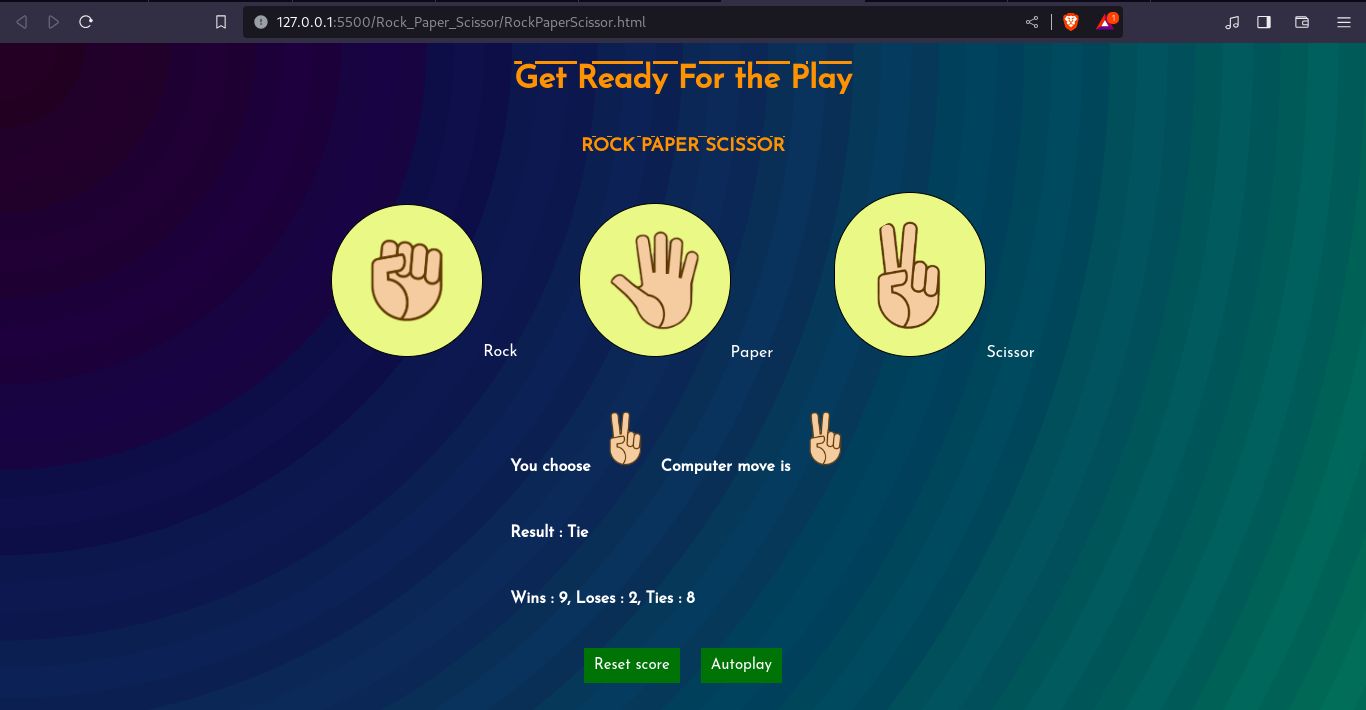
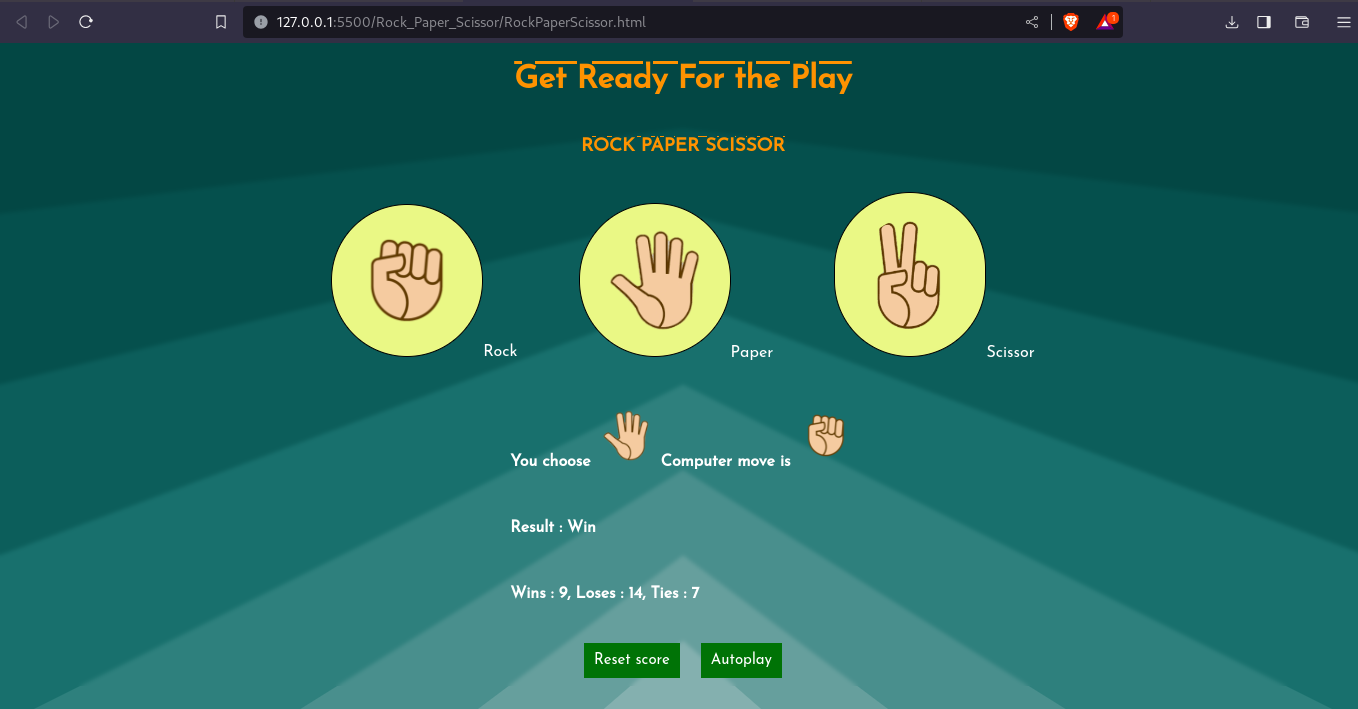
Learning Day 20

diff --git a/Rock_Paper_Scissor/style.css b/Rock_Paper_Scissor/style.css
@@ -1,8 +1,10 @@
 body {
     font-family: 'Josefin Sans', sans-serif;
-    background-image: url(Images/rainbow-vortex.svg);
-    background-size: cover;
     margin: 0;
+    background-image: url(Images/cornered-stairs.svg);
+    background-size: cover;
+    background-repeat: repeat;
+    backdrop-filter: blur(2px);
 }
 
 header {
